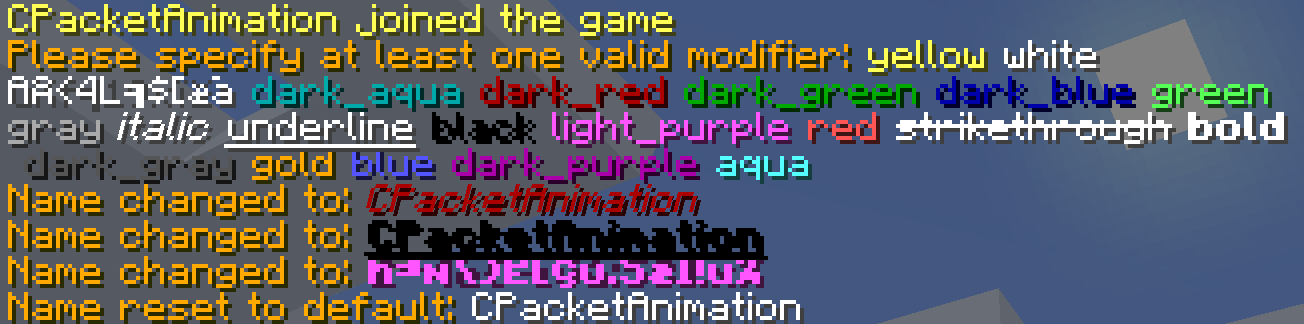
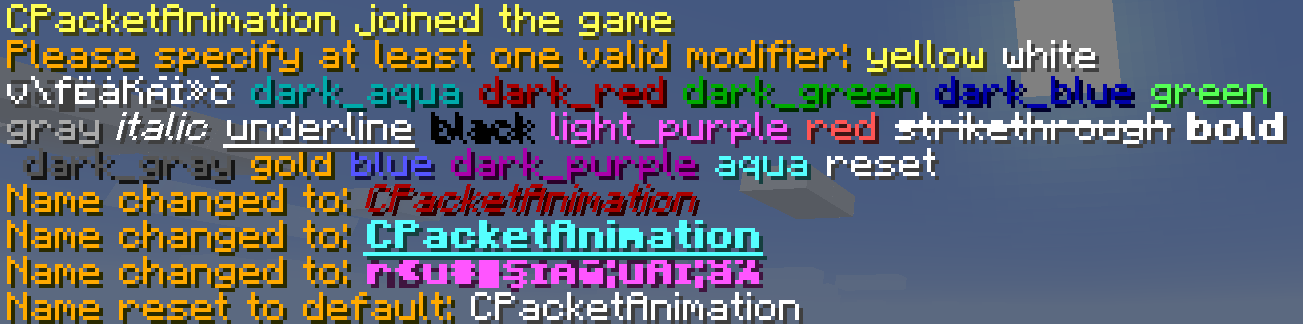
redme

diff --git a/README.md b/README.md
@@ -11,7 +11,7 @@
 ###### Usage
  - `/nc <modifiers>`
  - `/nc dark red italic`
- - `/nc black bold underline`
+ - `/nc aqua bold underline`
  - `/nc light_purple magic bold`
  - `/nc reset`
 
